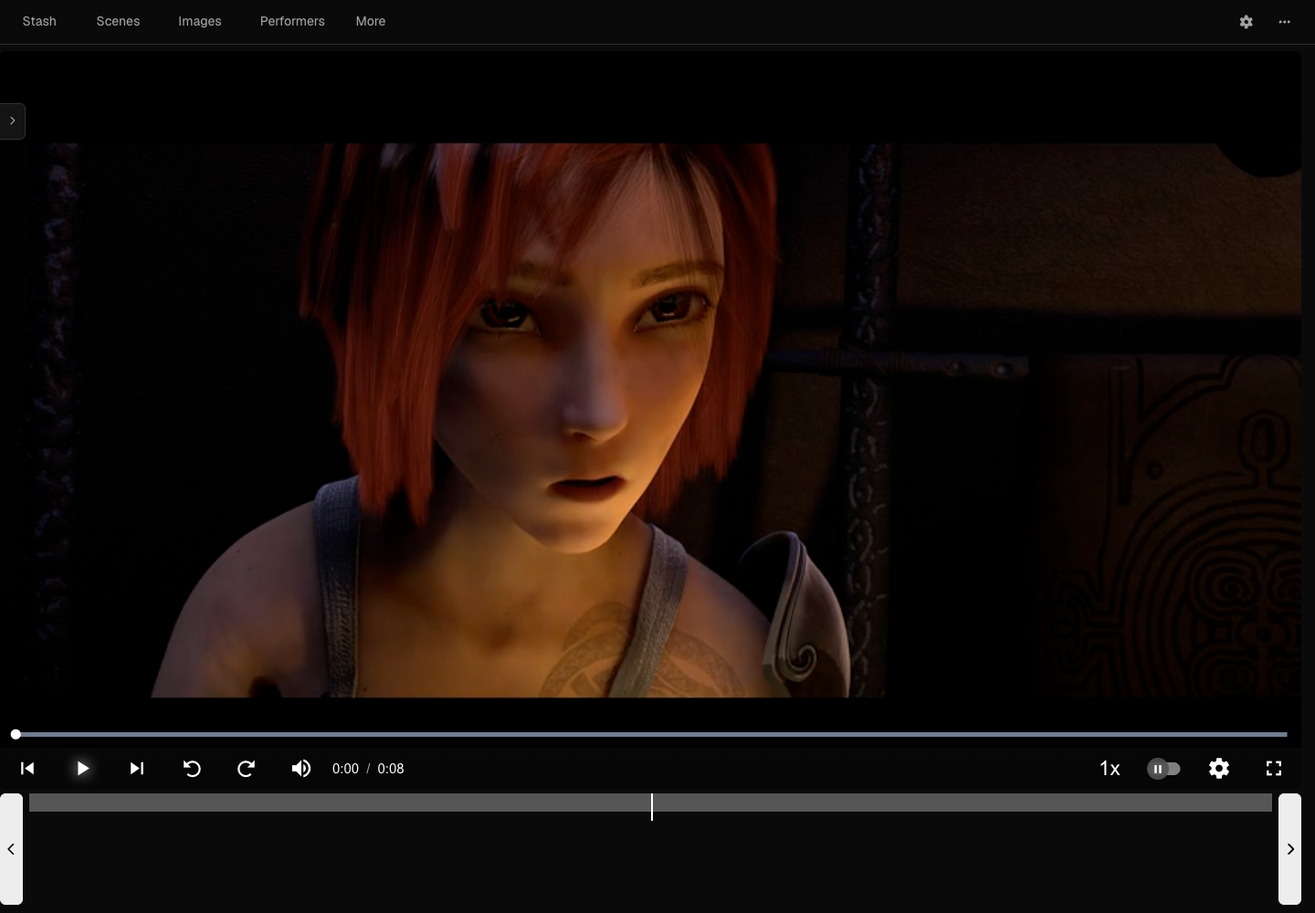
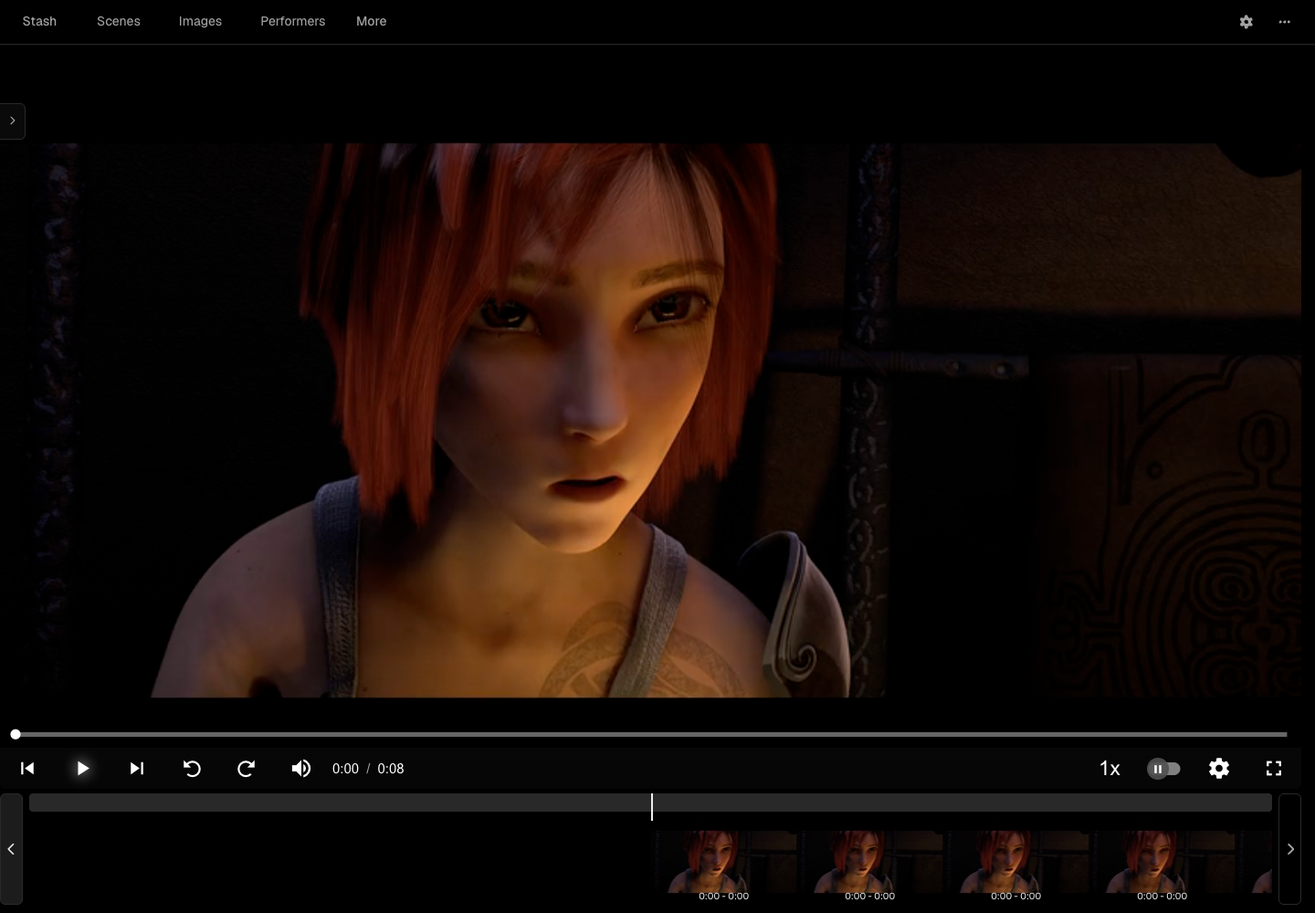
feat: align native interface with Geist dashboard

Changed region(s): [[0.0, 0.868, 1.0, 0.992], [0.0312, 0.775, 0.9688, 0.806], [0.2188, 0.0, 0.25, 0.031]]

diff --git a/plugins/stash-minimal/minimal.css b/plugins/stash-minimal/minimal.css
@@ -8,16 +8,18 @@
 
 :root {
   color-scheme: dark;
-  --minimal-bg: #0a0a0a;
-  --minimal-surface: #141414;
-  --minimal-hover: #202020;
+  --minimal-bg: #000;
+  --minimal-surface: #0a0a0a;
+  --minimal-hover: #1f1f1f;
   --minimal-active: #292929;
-  --minimal-border: #303030;
+  --minimal-border: #292929;
   --minimal-text: #ededed;
   --minimal-muted: #a1a1a1;
   --minimal-link: #8ec5ff;
   --minimal-focus: #52a8ff;
   --minimal-radius: 6px;
+  --minimal-control-height: 36px;
+  --minimal-menu-shadow: 0 0 0 1px #ffffff25, 0 4px 8px -4px #0000000a, 0 16px 24px -8px #0000000f;
   --minimal-font: "Stash Geist", -apple-system, BlinkMacSystemFont, "Segoe UI", sans-serif;
 }
 
@@ -30,7 +32,7 @@ body {
 }
 
 input, button, select, textarea { font-family: inherit; }
-h1, h2, h3, h4, h5, h6 { font-weight: 550; letter-spacing: -.025em; }
+h1, h2, h3, h4, h5, h6 { font-weight: 600; letter-spacing: -.025em; }
 h1 { font-size: 28px; }
 h2 { font-size: 24px; }
 h3 { font-size: 20px; }
@@ -82,9 +84,9 @@ hr, .border, .border-bottom, .border-top { border-color: var(--minimal-border) !
 .btn {
   border-radius: var(--minimal-radius);
   font-size: 14px;
-  font-weight: 450;
+  font-weight: 500;
   box-shadow: none !important;
-  transition: background-color 120ms ease, border-color 120ms ease, color 120ms ease;
+  transition: background-color 150ms ease, border-color 150ms ease, color 150ms ease;
 }
 .btn-primary {
   background: var(--minimal-text);
@@ -94,8 +96,8 @@ hr, .border, .border-bottom, .border-top { border-color: var(--minimal-border) !
 .btn-primary:hover, .btn-primary:focus, .btn-primary:active,
 .btn-primary:not(:disabled):not(.disabled):active, .btn-primary:not(:disabled):not(.disabled).active,
 .show > .btn-primary.dropdown-toggle {
-  background: #d6d6d6;
-  border-color: #d6d6d6;
+  background: #ccc;
+  border-color: #ccc;
   color: var(--minimal-bg);
 }
 .btn-primary:disabled, .btn-primary.disabled { background: var(--minimal-active); border-color: var(--minimal-border); color: var(--minimal-muted); }
@@ -108,7 +110,7 @@ hr, .border, .border-bottom, .border-top { border-color: var(--minimal-border) !
 .btn-secondary:not(:disabled):not(.disabled).active,
 .btn-outline-secondary:hover, .show > .btn-secondary.dropdown-toggle {
   background: var(--minimal-hover);
-  border-color: #484848;
+  border-color: #454545;
   color: var(--minimal-text);
 }
 .btn.minimal, .minimal.btn-primary, .minimal.btn-primary:focus, .btn-link {
@@ -152,6 +154,7 @@ hr, .border, .border-bottom, .border-top { border-color: var(--minimal-border) !
 .form-control::placeholder { color: #888; opacity: 1; }
 .clearable-text-field-clear { background: transparent !important; border-color: transparent !important; color: var(--minimal-muted); }
 input[type=checkbox], input[type=radio], input[type=range] { accent-color: var(--minimal-text); }
+.custom-control-label { color: var(--minimal-text); }
 .custom-control-label::before { background: var(--minimal-surface); border-color: #666; }
 .custom-control-input:checked ~ .custom-control-label::before { background: #555; border-color: #888; }
 
@@ -171,11 +174,11 @@ div.react-select__menu, div.dropdown-menu, .popover, .tooltip-inner {
   border: 1px solid var(--minimal-border);
   border-radius: 12px;
   color: var(--minimal-text);
-  box-shadow: 0 8px 24px #0006;
+  box-shadow: var(--minimal-menu-shadow);
 }
 div.dropdown-menu { padding: 6px; }
 div.dropdown-menu .dropdown-item, div.react-select__menu .react-select__option { color: var(--minimal-text); font-size: 14px; }
-div.dropdown-menu .dropdown-item { border-radius: 4px; padding: 8px 10px; }
+div.dropdown-menu .dropdown-item { border-radius: var(--minimal-radius); padding: 6px 8px; min-height: 32px; }
 div.dropdown-menu .dropdown-item:hover, div.dropdown-menu .dropdown-item:focus,
 div.react-select__menu .react-select__option--is-focused { background: var(--minimal-hover); }
 div.dropdown-menu .dropdown-item.active, div.react-select__menu .react-select__option--is-selected { background: var(--minimal-active); }
@@ -247,14 +250,15 @@ div.dropdown-menu .dropdown-item.active, div.react-select__menu .react-select__o
 .scene-player-container .video-js { border-radius: 6px; overflow: hidden; }
 .scene-player-container .vjs-control-bar { background: #0a0a0ae6; }
 .scene-player-container .vjs-play-progress { background: #ededed; }
-.scene-player-container .vjs-load-progress { background: #666; }
+.scene-player-container .vjs-progress-holder { background: var(--minimal-border); }
+.scene-player-container .vjs-load-progress, .scene-player-container .vjs-load-progress div { background: #666; }
 .scene-player-container .vjs-volume-level { background: #ededed; }
 .scene-player-container .vjs-big-play-button { width: 64px; height: 64px; line-height: 64px; margin: -32px 0 0 -32px; font-size: 28px; border: 0; background: #0a0a0a99; border-radius: 50%; }
 .scene-player-container .vjs-menu-content { background: var(--minimal-surface); border: 1px solid var(--minimal-border); border-radius: 6px; }
 .scene-player-container .vjs-menu-item.vjs-selected { background: var(--minimal-hover); color: var(--minimal-text); }
 
 .table { color: var(--minimal-text); }
-.table thead, .table-list table thead, .package-manager table thead { background-color: var(--minimal-hover); }
+.table thead, .table-list table thead, .package-manager table thead { background-color: var(--minimal-surface); }
 .table th, .table td, .table thead th { border-color: var(--minimal-border); }
 .table-striped tbody tr:nth-of-type(odd) { background: #ffffff03; }
 .table-hover tbody tr:hover { background: var(--minimal-hover); color: var(--minimal-text); }
@@ -271,6 +275,82 @@ div.dropdown-menu .dropdown-item.active, div.react-select__menu .react-select__o
 .filtered-list-toolbar input.zoom-slider::-moz-range-track { background: var(--minimal-border); }
 .filtered-list-toolbar input.zoom-slider::-moz-range-thumb { background: var(--minimal-muted); }
 
+.btn:not(.minimal):not(.btn-sm):not(.scrubber-button) { min-height: var(--minimal-control-height); }
+.btn-sm { font-size: 14px; }
+.form-control:not(textarea), .custom-select { min-height: var(--minimal-control-height); }
+.form-text, .form-label, .col-form-label { font-size: 14px; }
+.form-text { color: var(--minimal-muted); }
+.input-group-text { color: var(--minimal-muted); }
+.custom-switch { padding-left: 44px; min-height: 24px; }
+.custom-switch .custom-control-label { height: 24px; }
+.custom-switch .custom-control-label::before { left: -44px; top: 2px; width: 36px; height: 20px; border-radius: 20px; border-color: #454545; background: var(--minimal-hover); }
+.custom-switch .custom-control-label::after { left: -42px; top: 4px; width: 16px; height: 16px; border-radius: 50%; background: var(--minimal-muted); transition: background-color 150ms ease, transform 150ms ease; }
+.custom-switch .custom-control-input:checked ~ .custom-control-label::before { background: var(--minimal-text); border-color: var(--minimal-text); }
+.custom-switch .custom-control-input:checked ~ .custom-control-label::after { background: var(--minimal-bg); transform: translateX(16px); }
+.custom-control-input:focus-visible ~ .custom-control-label::before { outline: 2px solid var(--minimal-focus); outline-offset: 3px; }
+.custom-checkbox .custom-control-input:checked ~ .custom-control-label::before { background: var(--minimal-text); border-color: var(--minimal-text); }
+.custom-checkbox .custom-control-input:checked ~ .custom-control-label::after { filter: invert(1); }
+.custom-control-input:disabled ~ .custom-control-label::before { background: var(--minimal-hover); border-color: #454545; }
+.custom-switch .custom-control-input:disabled ~ .custom-control-label::after { background: var(--minimal-muted); }
+.alert-primary, .alert-info, .alert-secondary { background: var(--minimal-surface); border-color: var(--minimal-border); color: var(--minimal-text); }
+.alert-warning { background: #241a0b; border-color: #594013; color: #ffd899; }
+.alert-danger { background: #2b1215; border-color: #63262d; color: #ffb4bd; }
+.alert-success { background: #0b2418; border-color: #205c3d; color: #9ce9bf; }
+.alert a { color: inherit; text-decoration: underline; }
+.popover .arrow::after { border-color: transparent; }
+.bs-popover-top > .arrow::after, .bs-popover-auto[x-placement^="top"] > .arrow::after { border-top-color: var(--minimal-surface); }
+.bs-popover-right > .arrow::after, .bs-popover-auto[x-placement^="right"] > .arrow::after { border-right-color: var(--minimal-surface); }
+.bs-popover-bottom > .arrow::after, .bs-popover-auto[x-placement^="bottom"] > .arrow::after { border-bottom-color: var(--minimal-surface); }
+.bs-popover-left > .arrow::after, .bs-popover-auto[x-placement^="left"] > .arrow::after { border-left-color: var(--minimal-surface); }
+.progress { background: var(--minimal-border); border-radius: 4px; }
+.progress-bar { background-color: var(--minimal-muted); color: var(--minimal-bg); }
+.table thead th { color: var(--minimal-muted); font-weight: 500; font-size: 12px; }
+.table td { vertical-align: middle; }
+.package-manager .package-id, .package-manager .package-date, .package-manager .package-latest-date,
+.package-manager-no-results { color: var(--minimal-muted); }
+
+#settings-container .tab-content { max-width: 900px; }
+.setting-section:not(:first-child) { margin-top: 32px; }
+.setting-section h1, #tasks-panel h1 { font-size: 24px; line-height: 32px; margin-bottom: 16px; }
+.setting-section > h1:empty { display: none; }
+.setting-section .sub-heading { color: var(--minimal-muted); font-size: 14px; margin: -8px 0 16px; }
+.setting-section .card { background: var(--minimal-surface); border: 1px solid var(--minimal-border); }
+.setting-section .setting, .setting-section .content { padding: 20px; }
+.setting-section .setting { gap: 20px; }
+.setting-section .setting h3 { font-size: 14px; line-height: 20px; font-weight: 500; }
+.setting-section .setting .sub-heading { margin: 8px 0 0; font-size: 14px; line-height: 20px; }
+.setting-section .setting:not(:last-child), .setting-section .setting-group:not(:last-child) { border-bottom-color: var(--minimal-border); }
+.setting-section .setting-group > .setting:first-child h3 { font-size: 20px; line-height: 26px; font-weight: 600; }
+.setting-section .setting-group .setting-group-collapse-button { color: var(--minimal-muted); font-size: 16px; }
+.setting-section .setting-group > .setting:not(:first-child), .setting-section .setting-group .collapsible-section .setting { margin-left: 20px; margin-right: 20px; }
+.setting-section .setting .value, pre, code { color: var(--minimal-text); }
+.setting-section .setting .value pre { background: var(--minimal-bg); border: 1px solid var(--minimal-border); border-radius: var(--minimal-radius); padding: 12px; }
+#tasks-panel .tasks-panel-queue { background: var(--minimal-bg); margin-top: 0; padding: 0 0 24px; }
+.job-table.card { background: var(--minimal-surface); border: 1px solid var(--minimal-border); height: auto; min-height: 56px; max-height: 240px; margin-bottom: 0; padding: 16px; }
+.job-table.card ul { margin-bottom: 0; }
+.job-table .empty-queue-message { color: var(--minimal-muted); font-size: 14px; }
+.job-table .job-description { gap: 12px; font-size: 14px; }
+.job-table .job-description > div { min-width: 0; }
+.job-table .job-subtask { color: var(--minimal-muted); font-size: 12px; overflow-wrap: anywhere; }
+.job-table .job-eta { color: var(--minimal-muted); white-space: nowrap; }
+.job-table .progress { height: 6px; margin: 8px 0; }
+.job-table .progress-bar { font-size: 0; }
+.troubleshooting-mode-button { position: static; padding: 12px 0 0; }
+.troubleshooting-mode-button .btn.btn-primary { background: transparent; border-color: transparent; color: var(--minimal-muted); font-size: 12px; padding: 6px 8px; white-space: normal; text-align: left; }
+.troubleshooting-mode-button .btn.btn-primary:hover, .troubleshooting-mode-button .btn.btn-primary:focus,
+.troubleshooting-mode-button .btn.btn-primary:not(:disabled):not(.disabled):active { background: var(--minimal-hover); border-color: transparent; color: var(--minimal-text); }
+
+.scrubber-button.btn.btn-primary { background: transparent; border-color: var(--minimal-border); color: var(--minimal-muted); font-weight: 500; }
+.scrubber-button.btn.btn-primary:hover, .scrubber-button.btn.btn-primary:focus,
+.scrubber-button.btn.btn-primary:not(:disabled):not(.disabled):active { background: var(--minimal-hover); border-color: var(--minimal-border); color: var(--minimal-text); }
+.scrubber-tags-background { background: var(--minimal-border); border-radius: 4px; }
+#scrubber-position-indicator { background: #ededed26; border-radius: 4px; }
+#scrubber-current-position { background: var(--minimal-text); }
+.scrubber-tag { background: var(--minimal-surface); border: 1px solid var(--minimal-border); border-radius: 4px; color: var(--minimal-text); }
+.scrubber-tag::after { border-top-color: var(--minimal-surface); }
+.scrubber-tag:hover { background: var(--minimal-hover); }
+.scrubber-tag:hover::after { border-top-color: var(--minimal-hover); }
+
 @media (min-width: 1200px) {
   .top-nav .navbar-collapse { overflow: visible; }
 }
@@ -283,6 +363,10 @@ div.dropdown-menu .dropdown-item.active, div.react-select__menu .react-select__o
 @media (max-width: 767.98px) {
   .scene-divider.minimal-scene-divider { top: 12px; }
   .scene-tabs { padding: 16px; }
+  .setting-section .setting, .setting-section .content { padding: 16px; }
+  .setting-section .setting { gap: 12px; }
+  .setting-section .setting-group > .setting:not(:first-child), .setting-section .setting-group .collapsible-section .setting { margin-left: 16px; margin-right: 16px; }
+  .job-table .job-description { flex-wrap: wrap; }
   .top-nav .navbar-collapse .btn { min-height: 44px; }
   .filtered-list-toolbar .btn, .pagination .btn { min-height: 40px; }
   .form-control, .custom-select, div.react-select__control { font-size: 16px; }
@@ -292,6 +376,6 @@ div.dropdown-menu .dropdown-item.active, div.react-select__menu .react-select__o
   .grid-card .card-check { opacity: .7; }
 }
 @media (prefers-reduced-motion: reduce) {
-  .btn, .grid-card .scene-specs-overlay, .grid-card .scene-card-preview-video,
+  .btn, .custom-switch .custom-control-label::after, .grid-card .scene-specs-overlay, .grid-card .scene-card-preview-video,
   .grid-card .rating-banner, .grid-card .studio-overlay { transition: none; }
 }

diff --git a/tests/browser.js b/tests/browser.js
@@ -19,13 +19,13 @@ export default async function testTheme(page, options) {
     const releaseNotes = page.getByRole('dialog');
     if (await releaseNotes.count()) {
       const modal = await colors('.modal-body');
-      check('release notes use neutral surface', modal.background === 'rgb(20, 20, 20)' || modal.background === 'rgba(0, 0, 0, 0)', modal);
+      check('release notes use neutral surface', modal.background === 'rgb(10, 10, 10)' || modal.background === 'rgba(0, 0, 0, 0)', modal);
       await releaseNotes.getByRole('button', { name: 'Close', exact: true }).click();
     }
     check('eight actual Stash scene cards', await page.locator('.scene-card').count() === 8);
     check('theme CSS loaded', await page.locator('link[href*="/plugin/stash-minimal/css"]').count() === 1);
     const body = await colors('body');
-    check('neutral background and Geist', body.background === 'rgb(10, 10, 10)' && body.font.includes('Stash Geist'), body);
+    check('neutral background and Geist', body.background === 'rgb(0, 0, 0)' && body.font.includes('Stash Geist'), body);
     check('local font decoded', await page.evaluate(() => document.fonts.check('14px "Stash Geist"')));
     const card = await colors('.scene-card');
     check('cards have no chrome', card.background === 'rgba(0, 0, 0, 0)' && card.border === '0px', card);
@@ -86,7 +86,7 @@ export default async function testTheme(page, options) {
     await page.screenshot({ path: options.reportDir + '/' + options.browser + '-library.png' });
     await page.locator('.sort-by-select .dropdown-toggle').click();
     const menu = await colors('.dropdown-menu.show');
-    check('native dropdown uses theme surface', menu.background === 'rgb(20, 20, 20)', menu);
+    check('native dropdown uses theme surface', menu.background === 'rgb(10, 10, 10)', menu);
     await page.keyboard.press('Escape');
     await page.keyboard.press('Tab');
     const focus = await page.evaluate(() => ({ outline: getComputedStyle(document.activeElement).outlineStyle,
@@ -112,20 +112,70 @@ export default async function testTheme(page, options) {
     await playerPage.locator('.vjs-play-control').click();
     await playerPage.waitForLoadState('networkidle');
     check('detail page has no horizontal overflow', await noOverflow(playerPage));
+    await playerPage.locator('.scrubber-item').first().waitFor();
+    const scrubber = playerPage.locator('#scrubber-back');
+    const scrubberColors = await scrubber.evaluate(el => { const s = getComputedStyle(el); return { background: s.backgroundColor, color: s.color }; });
+    check('generated thumbnail scrubber uses quiet arrows', scrubberColors.background === 'rgba(0, 0, 0, 0)' && scrubberColors.color === 'rgb(161, 161, 161)', scrubberColors);
+    await scrubber.hover();
+    await playerPage.waitForFunction(() => getComputedStyle(document.querySelector('#scrubber-back')).backgroundColor === 'rgb(31, 31, 31)');
+    check('scrubber hover uses neutral highlight', await scrubber.evaluate(el => getComputedStyle(el).backgroundColor) === 'rgb(31, 31, 31)');
+    await playerPage.mouse.move(700, 400);
+    const track = await playerPage.locator('.scrubber-tags-background').evaluate(el => getComputedStyle(el).backgroundColor);
+    check('scrubber track uses neutral border token', track === 'rgb(41, 41, 41)', track);
     await playerPage.screenshot({ path: options.reportDir + '/' + options.browser + '-detail.png' });
     await utilities.getByRole('button', { name: 'Settings', exact: true }).click();
     await page.getByRole('tab', { name: 'Plugins', exact: true }).click();
     await page.getByText('Stash Minimal', { exact: true }).first().waitFor();
     check('package appears in native settings', await page.getByText('Stash Minimal', { exact: true }).count() > 0);
     const tableHeader = await colors('.package-manager thead');
-    check('package table uses neutral header', tableHeader.background === 'rgb(32, 32, 32)', tableHeader);
+    check('package table uses neutral header', tableHeader.background === 'rgb(10, 10, 10)', tableHeader);
     check('settings has no horizontal overflow', await noOverflow());
-    for (const tab of ['Interface', 'Tasks', 'System']) {
+    const advancedMode = page.getByRole('checkbox', { name: 'Advanced mode', exact: true });
+    if (!(await advancedMode.isChecked())) await advancedMode.press('Space');
+    check('advanced native settings remain available', await page.getByRole('checkbox', { name: 'Advanced mode', exact: true }).isChecked());
+    for (const tab of ['Interface', 'Tasks', 'Library', 'Security', 'Metadata Providers', 'Services', 'System', 'Logs', 'Tools', 'Changelog', 'About']) {
       await page.getByRole('tab', { name: tab, exact: true }).click();
       await page.getByRole('tabpanel', { name: tab, exact: true }).waitFor();
       check(tab + ' settings remain usable', await noOverflow());
+      const legacySurfaces = await page.getByRole('tabpanel', { name: tab, exact: true }).evaluate(panel => [...panel.querySelectorAll('*')].filter(el => el.getBoundingClientRect().height > 0 && ['rgb(32, 43, 51)', 'rgb(48, 64, 77)', 'rgb(57, 75, 89)'].includes(getComputedStyle(el).backgroundColor)).map(el => ({ tag: el.tagName, class: el.className, background: getComputedStyle(el).backgroundColor })));
+      check(tab + ' has no legacy blue surfaces', legacySurfaces.length === 0, legacySurfaces);
+      if (tab === 'Tasks') {
+        const queue = await colors('.job-table.card');
+        check('task queue uses neutral surface', queue.background === 'rgb(10, 10, 10)', queue);
+        check('empty task queue is compact', await page.locator('.job-table.card').evaluate(el => el.getBoundingClientRect().height) <= 80);
+        const heading = await page.locator('#tasks-panel h1').first().evaluate(el => getComputedStyle(el).fontSize);
+        check('settings headings follow dashboard scale', heading === '24px', heading);
+        const diagnostic = page.getByRole('button', { name: 'Troubleshooting mode', exact: true });
+        const diagnosticStyle = await diagnostic.evaluate(el => { const s = getComputedStyle(el); return { bg: s.backgroundColor, color: s.color, size: s.fontSize, position: getComputedStyle(el.parentElement).position }; });
+        check('diagnostic action is secondary and inline', diagnosticStyle.bg === 'rgba(0, 0, 0, 0)' && diagnosticStyle.color === 'rgb(161, 161, 161)' && diagnosticStyle.position === 'static', diagnosticStyle);
+        await diagnostic.click();
+        const dialog = page.getByRole('dialog');
+        await dialog.waitFor();
+        check('native diagnostic dialog still opens', await dialog.isVisible());
+        check('diagnostic dialog uses neutral surface', (await colors('.modal-content')).background === 'rgb(10, 10, 10)');
+        await dialog.getByRole('button', { name: 'Cancel', exact: true }).click();
+        await dialog.waitFor({ state: 'hidden' });
+        const switchGeometry = await page.locator('.custom-switch .custom-control-label').first().evaluate(el => { const track = getComputedStyle(el, '::before'), thumb = getComputedStyle(el, '::after'); return { width: track.width, height: track.height, thumb: thumb.width }; });
+        check('native switches match dashboard geometry', switchGeometry.width === '36px' && switchGeometry.height === '20px' && switchGeometry.thumb === '16px', switchGeometry);
+        const disabledSwitch = await page.locator('label[for=scan-generate-image-previews]').evaluate(el => getComputedStyle(el, '::before').backgroundColor);
+        check('disabled switches retain neutral surface', disabledSwitch === 'rgb(31, 31, 31)', disabledSwitch);
+        await page.screenshot({ path: options.reportDir + '/' + options.browser + '-settings.png' });
+        const jobResponse = await page.request.post(options.baseURL + '/graphql', { data: { query: 'mutation($input:GenerateMetadataInput!){metadataGenerate(input:$input)}', variables: { input: { sceneIDs: [options.sceneId], sprites: true, overwrite: true } } } });
+        const job = await jobResponse.json();
+        check('owned fixture generation creates a real job', !!job.data?.metadataGenerate, job.errors);
+        await page.locator('.job-table .job').first().waitFor();
+        check('populated task queue uses neutral surface', (await colors('.job-table.card')).background === 'rgb(10, 10, 10)');
+        check('populated queue stays bounded', await page.locator('.job-table.card').evaluate(el => el.getBoundingClientRect().height) <= 240);
+        await page.locator('.job-table .job').waitFor({ state: 'hidden', timeout: 45000 });
+        check('queue shrinks after job completion', await page.locator('.job-table.card').evaluate(el => el.getBoundingClientRect().height) <= 80);
+      }
     }
     await page.setViewportSize({ width: 390, height: 844 });
+    await page.getByRole('tab', { name: 'Tasks', exact: true }).click();
+    await page.getByRole('tabpanel', { name: 'Tasks', exact: true }).waitFor();
+    check('portrait settings do not overflow', await noOverflow());
+    check('portrait queue remains compact', await page.locator('.job-table.card').evaluate(el => el.getBoundingClientRect().height) <= 80);
+    await page.screenshot({ path: options.reportDir + '/' + options.browser + '-mobile-settings.png' });
     await openScenes();
     await page.locator('.scene-card').first().waitFor();
     await page.evaluate(() => document.fonts.ready);

diff --git a/site/index.html b/site/index.html
@@ -5,7 +5,7 @@
 <meta name="description" content="A minimal Stash interface with compact native menus, focused playback, and locally bundled Geist Sans.">
 <title>Stash Minimal</title>
 <style>
-  :root{color-scheme:dark}*{box-sizing:border-box}body{margin:0;background:#0a0a0a;color:#ededed;font:16px/1.65 system-ui,sans-serif}main{max-width:1000px;margin:auto;padding:64px 24px}h1{font-size:clamp(32px,5vw,52px);line-height:1.1;letter-spacing:-.05em;margin:0 0 20px;font-weight:550}h2{font-size:20px;letter-spacing:-.025em;margin:40px 0 12px}p{max-width:620px;color:#a1a1a1}a{color:#ededed;text-underline-offset:4px}nav{display:flex;gap:24px;margin:24px 0 40px;font-size:14px}img{display:block;width:100%;height:auto;border-radius:6px;border:1px solid #303030}code{display:block;overflow-wrap:anywhere;padding:16px;border:1px solid #303030;border-radius:6px;background:#141414;font-size:14px}li{margin:8px 0}.version,footer{font-size:13px;color:#a1a1a1}.mobile{max-width:350px;margin-top:24px}footer{margin-top:48px}a:focus-visible{outline:2px solid #52a8ff;outline-offset:4px}
+  :root{color-scheme:dark}*{box-sizing:border-box}body{margin:0;background:#000;color:#ededed;font:16px/1.65 system-ui,sans-serif}main{max-width:1000px;margin:auto;padding:64px 24px}h1{font-size:clamp(32px,5vw,52px);line-height:1.1;letter-spacing:-.05em;margin:0 0 20px;font-weight:550}h2{font-size:20px;letter-spacing:-.025em;margin:40px 0 12px}p{max-width:620px;color:#a1a1a1}a{color:#ededed;text-underline-offset:4px}nav{display:flex;gap:24px;margin:24px 0 40px;font-size:14px}img{display:block;width:100%;height:auto;border-radius:6px;border:1px solid #292929}code{display:block;overflow-wrap:anywhere;padding:16px;border:1px solid #292929;border-radius:6px;background:#0a0a0a;font-size:14px}li{margin:8px 0}.version,footer{font-size:13px;color:#a1a1a1}.mobile{max-width:350px;margin-top:24px}footer{margin-top:48px}a:focus-visible{outline:2px solid #52a8ff;outline-offset:4px}
 </style>
 <main>
   <p class="version">Stash Minimal · {{VERSION}}</p>
@@ -17,6 +17,9 @@
   <p>Scenes, Images, and Performers stay in the main navigation. More holds the other library pages. Settings and other plugins remain directly accessible, while secondary actions share one menu.</p>
   <p>A small native React extension changes the layout and scene panel behavior. Stash still owns the routes, filters, editing tools, video player, and keyboard shortcuts.</p>
   <img src="assets/detail.png" alt="Native Stash playback with the details panel collapsed" width="1440" height="1000" loading="lazy">
+  <h2>Consistent settings</h2>
+  <p>Neutral cards, compact job queues, quiet diagnostic actions, and the same Geist spacing throughout native settings.</p>
+  <img src="assets/settings.png" alt="Native task settings with a compact neutral queue and inline troubleshooting action" width="1440" height="1000" loading="lazy">
   <h2>Install in Stash</h2>
   <ol><li>Open Settings → Plugins → Available Plugins → Add Source.</li><li>Name it Stash Minimal and paste the source URL below.</li><li>Install Stash Minimal, disable your previous theme, and reload.</li></ol>
   <code>https://quietframe-player.github.io/stash-minimal/index.yml</code>

diff --git a/scripts/integration.py b/scripts/integration.py
@@ -104,7 +104,7 @@ plugins_path: /config/plugins
                      f"/media/sintel-{index}.mp4"])
         (media / "source.mp4").unlink()
         graphql(base, "mutation($input:ScanMetadataInput!){metadataScan(input:$input)}", {
-            "input": {"paths": ["/media"], "scanGenerateCovers": True, "scanGenerateSprites": False,
+            "input": {"paths": ["/media"], "scanGenerateCovers": True, "scanGenerateSprites": True,
                       "scanGeneratePreviews": False, "scanGeneratePhashes": False}})
         for _ in range(90):
             state = graphql(base, "{findScenes{count scenes{id files{path}}} jobQueue{id}}")
@@ -144,7 +144,7 @@ plugins_path: /config/plugins
         if not all(receipt['passed'] for receipt in receipts):
             raise RuntimeError('Theme integration failed: ' + str(report))
         if args.update_screenshots:
-            for name in ['library', 'mobile', 'detail']:
+            for name in ['library', 'mobile', 'detail', 'settings']:
                 shutil.copyfile(report / (browsers[0] + '-' + name + '.png'), ROOT / 'site' / 'assets' / (name + '.png'))
         print('PASS: ' + str(report), flush=True)
     finally:

diff --git a/scripts/build.py b/scripts/build.py
@@ -21,7 +21,7 @@ def build():
     output.mkdir(exist_ok=True)
     archive = output / "stash-minimal.zip"
     files = {p.relative_to(PLUGIN).as_posix(): p for p in PLUGIN.rglob("*") if p.is_file()}
-    files.update({name: ROOT / name for name in ["LICENSE", "README.md", "FONT_SOURCE.md"]})
+    files.update({name: ROOT / name for name in ["LICENSE", "README.md", "FONT_SOURCE.md", "DESIGN.md"]})
     with zipfile.ZipFile(archive, "w", compression=zipfile.ZIP_DEFLATED) as package:
         for name, path in sorted(files.items()):
             entry = zipfile.ZipInfo(name, (2026, 1, 1, 0, 0, 0))

diff --git a/DESIGN.md b/DESIGN.md
@@ -1,0 +1,29 @@
+# Interface reference
+
+Stash Minimal uses the dark Vercel dashboard and [Geist design system](https://vercel.com/geist/introduction) as its visual reference. Measurements below were checked against the rendered dashboard, settings, project filter menu, and deployment list on October 2, 2026.
+
+| Element | Reference | Stash implementation |
+| --- | --- | --- |
+| Page background | Black | `--minimal-bg: #000` |
+| Panel and menu surface | `#0a0a0a` | `--minimal-surface` |
+| Selected navigation and hover | `#1f1f1f` | `--minimal-hover` |
+| Borders | Subtle neutral gray | `--minimal-border: #292929` |
+| Text | `#ededed`, secondary `#a1a1a1` | Shared text tokens |
+| Body and controls | Geist Sans, 14px | Local font and native controls |
+| Buttons and inputs | 36px normal; 32px compact | Control height token and compact variants |
+| Control corners | 6px | Shared radius |
+| Popover | 12px corners; 6px inner padding; 32px rows | Native Bootstrap/React Select menus |
+| Section titles | 24px/32px; 600 weight | Settings and task headings |
+| Group titles | 20px/26px; 600 weight | Native setting groups |
+| Settings rows | 20px padding; neutral separators | Native setting cards and descriptions |
+| Interaction | 150ms color/background transition; visible keyboard focus | Buttons, menus, and scene scrubber |
+
+Vercel's downloadable browser bundles use React/Next.js, shared design tokens, fieldset components, and data-driven hover/focus states. Stash already supplies React, routing, menus, forms, and playback. The theme patches native navigation and scene focus through the documented Plugin API and styles native components directly. It does not embed Vercel's application bundles or create another app runtime.
+
+The native thumbnail scrubber keeps its markers, heatmap, dragging, and previous/next handlers. Its arrows use secondary styling even though Stash declares them as primary buttons. The task queue grows with its contents up to a bounded scroll height; an empty queue does not reserve a large blank area. Troubleshooting remains the native diagnostic dialog, displayed as an inline secondary action.
+
+## Verification
+
+The integration fixture runs Stash v0.31.1, installs the package through Stash's package manager, scans the public Sintel trailer, and generates actual sprite/VTT data. Chrome and WebKit checks cover native playback, thumbnail scrubber surfaces and hover, task queue layout, diagnostic dialog, settings headings, navigation, menus, keyboard focus, portrait layout, and reduced motion. Fixture captures contain only public film footage.
+
+Account HTML and downloaded reference bundles are private research artifacts, excluded from the plugin and repository. Public style references: [colors](https://vercel.com/geist/colors), [typography](https://vercel.com/geist/typography), [materials](https://vercel.com/geist/materials), and [buttons](https://vercel.com/geist/button).

diff --git a/README.md b/README.md
@@ -2,7 +2,9 @@
 
 A quiet, compact dark theme for Stash, inspired by [Vercel Geist](https://vercel.com/geist/introduction).
 
-Neutral surfaces, restrained borders, and locally bundled Geist Sans. Thumbnails carry the scene grid; menus, inputs, dialogs, and settings share the same design.
+Black canvas, neutral panels, restrained borders, and locally bundled Geist Sans. Thumbnails carry the scene grid; menus, inputs, dialogs, and settings share the same design.
+
+The [interface reference](DESIGN.md) records the measured dashboard styles and their native Stash counterparts. Settings cards, job queues, diagnostic dialogs, and the thumbnail scrubber use the same tokens.
 
 The plugin also changes the native interface through Stash's React plugin API:
 
@@ -15,6 +17,7 @@ The JavaScript uses Stash's existing React, Bootstrap components, and icons. No 
 
 ![Scene grid](site/assets/library.png)
 ![Mobile library](site/assets/mobile.png)
+![Native settings](site/assets/settings.png)
 
 ## Install
 
